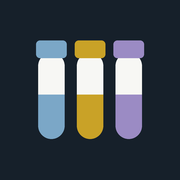
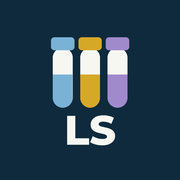
Novo ícone: tubos de colheita + LS
Claude-Session: https://claude.ai/code/session_011cJGHhzLeVCZWTJ8UJm7Bh

Changed region(s): [[0.1944, 0.1944, 0.8333, 0.8333]]

diff --git a/sw.js b/sw.js
@@ -1,6 +1,6 @@
 // Service worker da app Colheitas (manual de teste).
 // Mudar VERSAO sempre que se publicar uma versão nova.
-const VERSAO = 'colheitas-v28-2026-11-21';
+const VERSAO = 'colheitas-v29-2026-11-21';
 const FICHEIROS = ['./', './index.html', './manifest.webmanifest', './icon-192.png', './icon-512.png', './icon-maskable-512.png', './apple-touch-icon.png', './ocr/tesseract.min.js', './ocr/worker.min.js', './ocr/tesseract-core-simd-lstm.wasm.js', './ocr/tesseract-core-lstm.wasm.js', './ocr/por.traineddata.gz'];
 
 self.addEventListener('install', (e) => {
